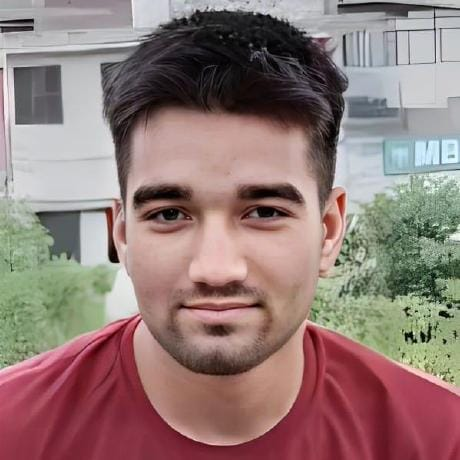
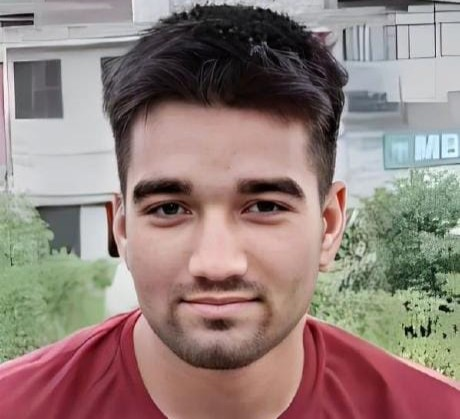
new updates

diff --git a/Pages/our-work.html b/Pages/our-work.html
@@ -377,7 +377,7 @@
 
         <div class="timeline-item left">
           <div class="timeline-dot"></div>
-          <div class="timeline-date" style="font-size: 1.35rem; font-weight: bold;">Oct 2025</div>
+          <div class="timeline-date" style="font-size: 1.35rem; font-weight: bold;">Oct 2024</div>
           <div class="timeline-content">
             <p style="font-size: 1.35rem; font-weight: bold;">Competitive Programming Session</p>
             <p> An engaging session on Competitive Programming, exploring problem-solving strategies, algorithmic
@@ -387,7 +387,7 @@
 
         <div class="timeline-item left">
           <div class="timeline-dot"></div>
-          <div class="timeline-date" style="font-size: 1.35rem; font-weight: bold;">Nov 2025</div>
+          <div class="timeline-date" style="font-size: 1.35rem; font-weight: bold;">Nov 2024</div>
           <div class="timeline-content">
             <p style="font-size: 1.35rem; font-weight: bold;">GitHub Session</p>
             <p> Hands-on session introducing the basics of GitHub, covering essential commands, version control

diff --git a/Pages/resources.html b/Pages/resources.html
@@ -156,7 +156,7 @@
                                     class="fas fa-book"></i>
                                 Python documentation</a>
                             <a target="_blank"
-                                href="https://drive.google.com/drive/folders/1a3BLvRjDSvJFKu0VIA_70sWP8sMEre3L"
+                                href="https://drive.google.com/file/d/1AR3nZMCczJO4RpvftJEewk9hEl6Gxyep/view?usp=drive_link"
                                 class="btn-resource"><i class="fas fa-external-link-alt"></i>Abhisek Sir
                                 Notes</a>
                         </div>

diff --git a/Pages/Team.html b/Pages/Team.html
@@ -236,7 +236,7 @@
         <!-- Member 1 -->
         <div class="member-card">
           <div class="relative">
-            <img src="/Components/Team/Development_team/mohitpo.jpg" alt="Mohit Pohwani" />
+            <img src="/Components/Team/Development_team/mohitpo(1).jpg" alt="Mohit Pohwani" />
             <div class="member-overlay">
               <div class="icon-bar">
 
